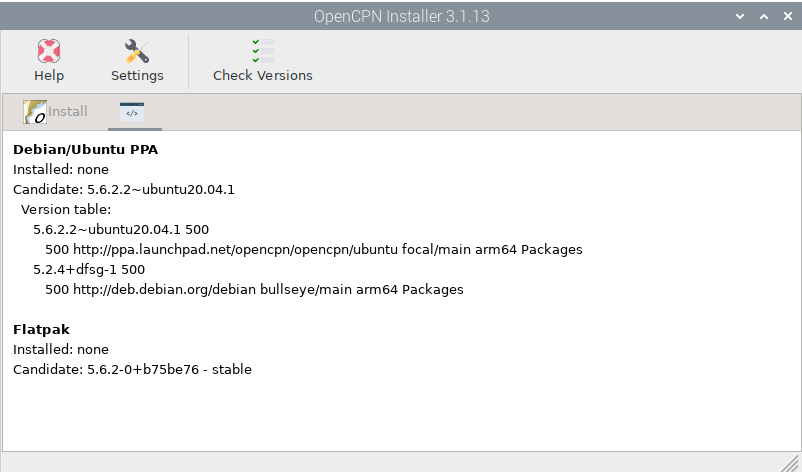
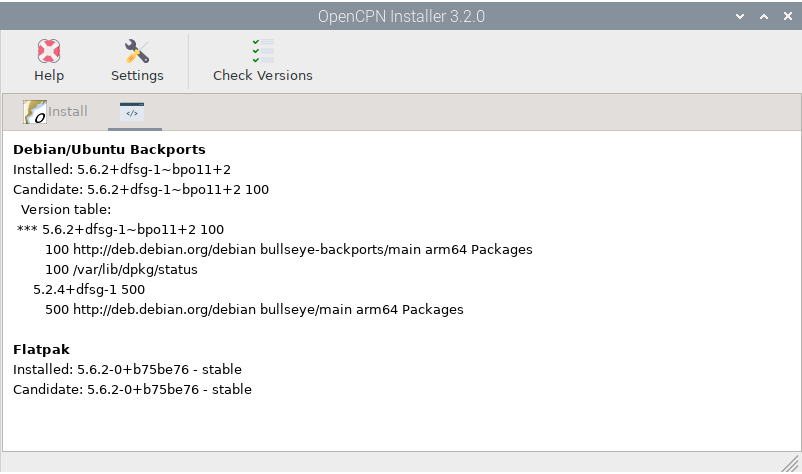
replace PPA source by Backports in OpenCPN

diff --git a/opencpn/opencpn_app.rst b/opencpn/opencpn_app.rst
@@ -1,6 +1,6 @@
 .. |OPopencpn| image:: img/openplotter-opencpn-installer.png
 .. |OPopencpnCheck| image:: img/check.png
-.. |OPopencpnPPA| image:: img/launchpad.png
+.. |OPopencpnBack| image:: img/debian.png
 .. |OPopencpnFlatpak| image:: img/flatpak.png
 .. |OPopencpnUpdate| image:: img/caution.png
 .. |OPopencpnUninstall| image:: img/uninstall.png
@@ -26,7 +26,7 @@
 
 |mhelp| ``Help`` opens an offline copy of this documentation in a browser and |mSettings| ``Settings`` opens the main app *OpenPlotter Settings*.
 
-OpenCPN can be installed on multiple Debian derivatives (Raspberry OS, Ubuntu, Mint...) and these OS can be installed on multiple 32-bit and 64-bit architectures (i386, armhf, arm64, amd64...). Using different sources, you will be able to install OpenCPN for any combination of OS and architecture, but plugins may not be available for a given combination. For this reason, we have added all the available sources to install OpenCPN to this *OpenPlotter OpenCPN Installer* app so you can choose the one that best suits your combination of OS and architecture.
+OpenCPN can be installed on multiple Debian derivatives (Raspberry OS, Ubuntu, Mint...) and these OS can be installed on multiple architectures (i386, armhf, arm64, amd64...). We have added all the ways to install OpenCPN to this *OpenPlotter OpenCPN Installer* app so you can choose the one that best suits your system.
 
 |OPopencpnCheck| Check Versions
 *******************************
@@ -37,28 +37,26 @@ When you open the app, all buttons are disabled. You have to check the current v
 
 A list with the different versions from all the sources will be displayed so that you can choose the right one. The buttons on the |OPopencpnPlugins| ``Install`` tab will now be enabled.
 
-.. image:: img/opencpn2.png
-
 Which source to choose?
 ***********************
 
-As a general rule, you should choose Debian/Ubuntu PPA, but if the plugin you need is not available for your system or if it is not the latest version of OpenCPN, choose the Flatpak installation. Both *Debian/Ubuntu PPA* and *Flatpak* installations can coexists without problem:
+As a general rule, you should choose *Debian/Ubuntu Backports*, but if the plugin you need is not available for your system or if you are running a non-LTS system, choose the Flatpak installation. Both *Debian/Ubuntu Backports* and *Flatpak* installations can coexists without problem:
+
+.. image:: img/opencpn4.png
+
+.. image:: img/opencpn2.png
 
 .. image:: img/opencpn5.png
 
-|OPopencpnPPA| Debian/Ubuntu PPA
-================================
+|OPopencpnBack| Debian/Ubuntu Backports
+=======================================
 
-This option contains two sources that are compatible with each other, the official Debian repository and a special Ubuntu repository. If you choose this option the highest version will be installed but rarely the Debian version will be higher than Ubuntu. The Ubuntu repository version can be installed on any Debian system without problem.
-
-.. image:: img/opencpn3.png
+This option contains two sources that are compatible with each other, the official Debian/Ubuntu Stable repository and the official Debian/Ubuntu Backports repository. If you choose this option the Debian/Ubuntu Backports version will be installed because the Debian/Ubuntu Stable version will rarely be higher.
 
 |OPopencpnFlatpak| Flatpak
 ==========================
 
-This option runs OpenCPN in a kind of container independent of the host system. For this reason the time and size of the download will be larger. This option is perfect if your system is not LTS (Long Term Support) or at that moment the plugin you need does not exist in the Debian/Ubuntu PPA version. At the time of writing this manual, there are some known issues with headless environments that could prevent OpenCPN Flatpak from running.
-
-.. image:: img/opencpn4.png
+This option runs OpenCPN in a kind of container independent of the host system. For this reason the time and size of the download will be larger. This option is perfect if your system is non-LTS (Long Term Support) or at that moment the plugin you need does not exist in the Debian/Ubuntu Backports version. At the time of writing this manual, there are some known issues with headless environments that could prevent OpenCPN Flatpak from running.
 
 OpenCPN Installer actions
 *************************

diff --git a/index.rst b/index.rst
@@ -40,7 +40,7 @@ Welcome to OpenPlotter's documentation!
    
 .. toctree::
    :maxdepth: 1
-   :caption: OpenCPN Installer - 3.1.13-beta
+   :caption: OpenCPN Installer - 3.2.0-beta
    :name: sec-opencpn
 
    opencpn/opencpn_app
